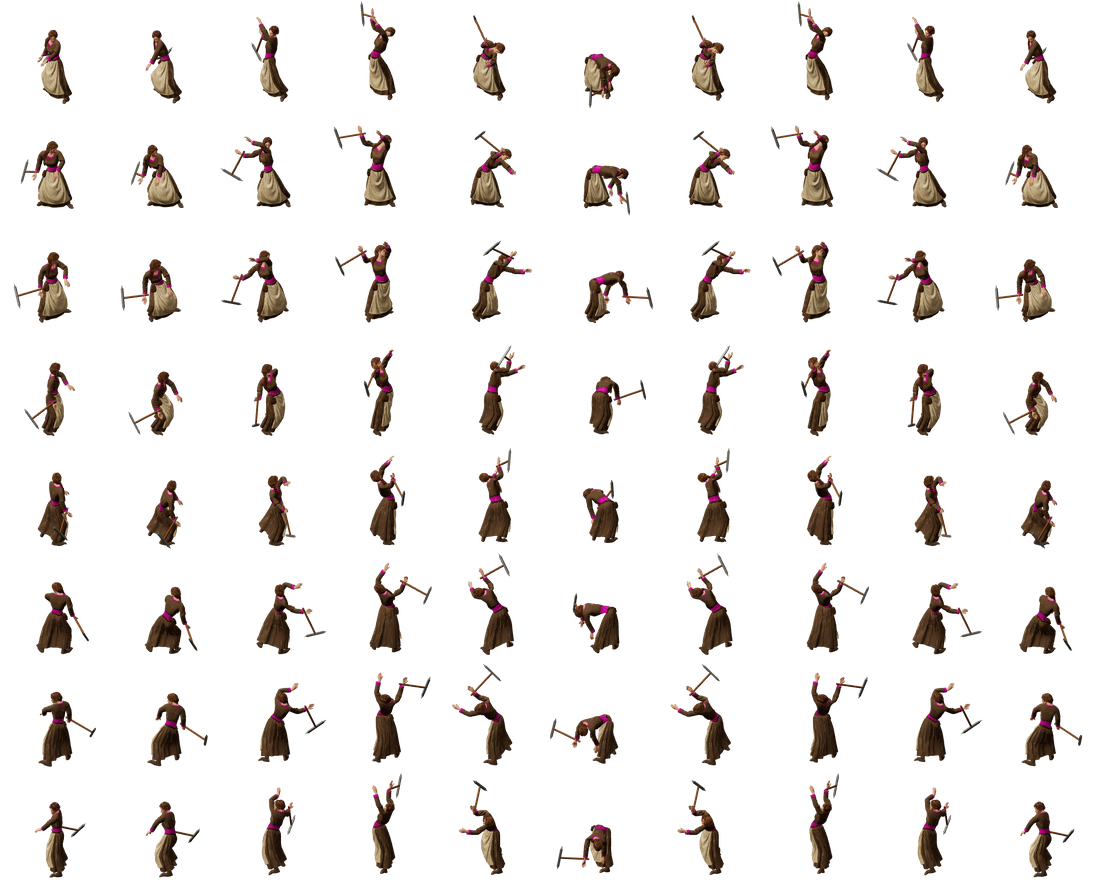
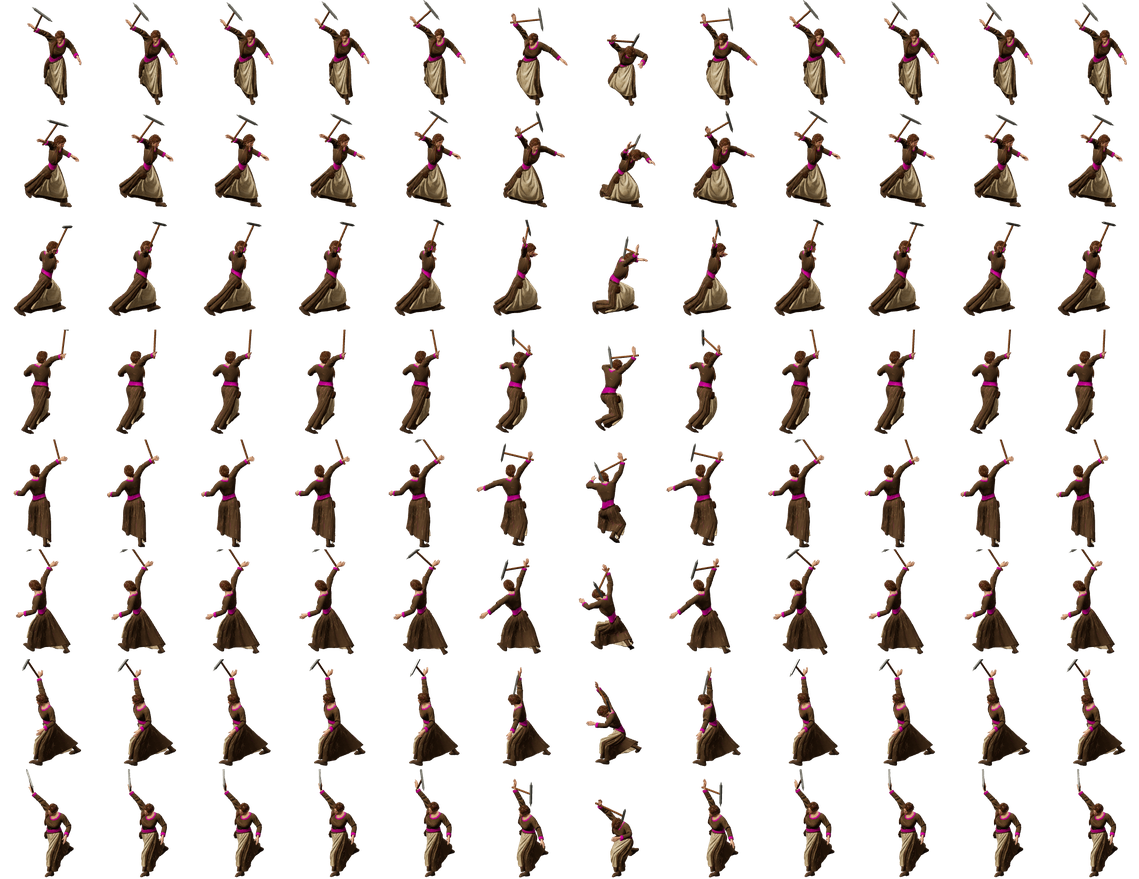
Britons villagers: smooth idle, distinct pickaxe strike, real-speed playback; Town Center garrison (ring bell, ungarrison, +1 arrow per villager)
Claude-Session: https://claude.ai/code/session_01Kh61o4nxMKQZ2MsyTLb45L

diff --git a/js/entities.js b/js/entities.js
@@ -38,7 +38,7 @@
       if (e.owner !== p || e.dead) continue;
       if (e.kind === 'unit') pop++;
       else if (e.kind === 'building') {
-        pop += e.queue ? e.queue.length : 0;
+        pop += (e.queue ? e.queue.length : 0) + (e.garrison ? e.garrison.length : 0);
         if (e.built && e.def.pop) cap += (e.type === 'house' && mods(p).housePop) ? mods(p).housePop : e.def.pop;
       }
     }
@@ -87,11 +87,32 @@
     return e;
   };
 
+  // ---- Garrison (AoE2-style): villagers shelter in their Town Center, each one adds an arrow ----
+  G.GARRISON_MAX = 15;
+  G.canGarrison = (u, b) => b && !b.dead && b.built && b.def.garrison && b.owner === u.owner && u.type === 'villager'
+    && (b.garrison || []).length + (b.incoming || 0) < b.def.garrison;
+  G.garrisonTo = function (u, b) { if (G.canGarrison(u, b)) { u.task = { t: 'garrison', id: b.id }; u.path = []; u.pathFor = 0; } };
+  G.ringBell = function (owner) {
+    for (const u of G.ents) if (!u.dead && u.owner === owner && u.type === 'villager') {
+      const tc = nearest(u, e => e.type === 'towncenter' && G.canGarrison(u, e));
+      if (tc) G.garrisonTo(u, tc);
+    }
+  };
+  G.ungarrison = function (b) {
+    const list = b.garrison || []; b.garrison = [];
+    for (const u of list) {
+      const spot = G.nearestFree(b.x + 1.5, b.y + 1.5, 10) || { x: b.tx, y: b.ty };
+      u.x = spot.x + 0.5 + (Math.random() - 0.5) * 0.4; u.y = spot.y + 0.5 + (Math.random() - 0.5) * 0.4;
+      u.task = { t: 'idle' }; u.path = []; u.inside = 0;
+      G.ents.push(u);
+    }
+  };
   G.kill = function (e) {
     if (e.dead) return;
     e.dead = true;
     if (e.kind !== 'unit' && e.type !== 'farm') G.setBlock(e, 0);
     if (e.kind === 'building' && e.queue) for (const q of e.queue) G.refund(e.owner, q.cost);
+    if (e.kind === 'building' && e.garrison && e.garrison.length) G.ungarrison(e);
     if (e.kind === 'res' && e.type === 'tree' && G.decals) G.decals.push({ x: e.x, y: e.y, life: 150 });
     if (e.kind === 'unit' && G.corpses) G.corpses.push({ type: e.type, owner: e.owner, sex: e.sex, face: e.face, dir: e.dir || 0, x: e.x, y: e.y, t: 0 });
     if (e.kind !== 'res') {
@@ -283,12 +304,13 @@
         b.cool -= dt;
         if (b.cool <= 0) {
           const t = nearest(b, e => e.kind === 'unit' && G.enemies(e.owner, b.owner), b.def.range);
-          if (t) { fire(b, t); b.cool = b.def.rate; }
+          if (t) { const n = 1 + (b.garrison ? b.garrison.length : 0); for (let i = 0; i < n; i++) fire(b, t); b.cool = b.def.rate; }
         }
       }
     }
     // Units
-    for (const u of G.ents) if (!u.dead && u.kind === 'unit') updateUnit(u, dt);
+    for (const u of G.ents) if (!u.dead && u.kind === 'unit' && !u.inside) updateUnit(u, dt);
+    if (G.ents.some(e => e.entering)) { for (const e of G.ents) delete e.entering; G.ents = G.ents.filter(e => !e.inside); }
     // Separation using a tile bucket grid
     const buckets = new Map();
     for (const u of G.ents) if (!u.dead && u.kind === 'unit') {
@@ -505,6 +527,18 @@
           if (u.pathFor !== f.id || !u.path.length) {
             if (u.repath <= 0 || u.pathFor !== f.id) { u.path = G.findPath(u.x, u.y, rectOf(f), false, 0); u.pathFor = f.id; u.repath = 1; }
           }
+          moveAlong(u, dt);
+        }
+        break;
+      }
+      case 'garrison': {
+        const b = G.byId.get(task.id);
+        if (!b || b.dead || !b.built || (b.garrison || []).length >= b.def.garrison) { u.task = { t: 'idle' }; break; }
+        if (G.edgeDist(u, b) <= 0.8) {
+          if (u.carry) { G.players[u.owner].res[u.carry.res] += Math.round(u.carry.amt); G.players[u.owner].gathered[u.carry.res] += Math.round(u.carry.amt); u.carry = null; }
+          (b.garrison = b.garrison || []).push(u); u.inside = b.id; u.entering = true; u.path = [];
+        } else {
+          if (u.pathFor !== b.id || !u.path.length) { if (u.repath <= 0 || u.pathFor !== b.id) pathTo(u, b, true); }
           moveAlong(u, dt);
         }
         break;

diff --git a/js/ui.js b/js/ui.js
@@ -3,7 +3,7 @@
   const $ = id => document.getElementById(id);
   const UI = G.ui = {};
   const ICON = { food: '🍖', wood: '🪵', gold: '🪙', stone: '🪨' };
-  const TASK_TXT = { idle: 'Idle', move: 'Moving', attack: 'Attacking', build: 'Building', farm: 'Farming', return: 'Delivering' };
+  const TASK_TXT = { idle: 'Idle', move: 'Moving', attack: 'Attacking', build: 'Building', farm: 'Farming', return: 'Delivering', garrison: 'Taking shelter' };
   G.selection = [];
   let mode = null; // null | 'place' | 'rally' | 'box'
   let panelKey = '', toastT = 0, idleIdx = 0, mmT = 0, lastAlertT = -99, saveT = 20;
@@ -390,7 +390,8 @@
         if (e.carry && e.carry.amt >= 1) sub += ` · carrying ${Math.floor(e.carry.amt)} ${ICON[e.carry.res]}`;
       } else if (!e.built) sub = `Under construction ${Math.floor(e.progress * 100)}%`;
       else if (e.type === 'farm') sub += ` · ${Math.ceil(e.food)} food left`;
-      else if (e.def.pop) { const pc = G.popOf(e.owner); sub += ` · +${e.type === 'house' && G.CIVS[G.players[e.owner].civ].mods.housePop || e.def.pop} pop`; }
+      if (e.garrison && e.garrison.length) sub += ` · ${e.garrison.length}/${e.def.garrison} inside`;
+      if (e.def.pop) { const pc = G.popOf(e.owner); sub += ` · +${e.type === 'house' && G.CIVS[G.players[e.owner].civ].mods.housePop || e.def.pop} pop`; }
       $('sel-sub').textContent = sub;
       $('sel-hp').style.display = '';
       $('sel-hp').firstChild.style.width = Math.max(0, e.hp / e.maxHp * 100) + '%';
@@ -413,7 +414,7 @@
 
     // commands (rebuilt only when something relevant changes)
     const R = G.players[1].res;
-    const key = sel.map(x => x.id).join(',') + '|' + buildMenu + '|' + (e.built ? 1 : 0) + '|' + Math.floor(R.food / 25) + Math.floor(R.wood / 25) + Math.floor(R.gold / 25) + Math.floor(R.stone / 25);
+    const key = sel.map(x => x.id).join(',') + '|' + buildMenu + '|' + (e.built ? 1 : 0) + '|' + (e.garrison ? e.garrison.length : 0) + '|' + Math.floor(R.food / 25) + Math.floor(R.wood / 25) + Math.floor(R.gold / 25) + Math.floor(R.stone / 25);
     if (!force && key === panelKey) return;
     panelKey = key;
     const cmds = $('cmds'); cmds.innerHTML = '';
@@ -430,6 +431,9 @@
         return;
       }
       if (vils.length) cmds.appendChild(btn('🔨', 'Build', '', () => { buildMenu = true; panelKey = ''; refreshPanel(true); }));
+      if (vils.length) cmds.appendChild(btn('🛡', 'Garrison', 'Town Center', () => {
+        for (const v of vils) { const tc = G.nearest(v, e => e.type === 'towncenter' && G.canGarrison(v, e)); if (tc) G.garrisonTo(v, tc); else { UI.alert('No room in a Town Center'); break; } }
+      }));
       cmds.appendChild(btn('✋', 'Stop', '', () => { for (const u of units) { u.task = { t: 'idle' }; u.path = []; } }));
       if (vils.length && vils.some(v => v.carry)) cmds.appendChild(btn('📦', 'Drop off', '', () => {
         for (const v of vils) if (v.carry) { const b = G.nearest(v, x => x.kind === 'building' && x.owner === 1 && x.built && x.def.drop && x.def.drop.includes(v.carry.res)); if (b) G.cmdDeposit([v], b); }
@@ -452,6 +456,11 @@
         }, !G.canAfford(1, c)));
       }
       cmds.appendChild(btn('🚩', 'Rally point', '', () => setMode('rally')));
+      if (e.def.garrison && e.owner === 1) {
+        cmds.appendChild(btn('🔔', 'Ring bell', 'all villagers in', () => { G.ringBell(1); UI.alert('Villagers, take shelter!'); panelKey = ''; }));
+        const n = (e.garrison || []).length;
+        if (n) cmds.appendChild(btn('🚪', 'Ungarrison', n + ' inside', () => { for (const b of sel) if (b.garrison) G.ungarrison(b); panelKey = ''; }));
+      }
     }
     if (e.kind === 'building' && e.owner === 1) {
       const del = btn('🗑', 'Delete', '', () => {

diff --git a/js/data.js b/js/data.js
@@ -54,7 +54,7 @@ G.UNITS = {
 
 // Buildings. size in tiles (square footprint).
 G.BUILDINGS = {
-  towncenter: { name: 'Town Center', cost: { wood: 275, stone: 100 }, time: 60, hp: 2400, size: 3, los: 8, pop: 5, drop: ['food','wood','gold','stone'], trains: ['villager'], atk: 5, range: 6, rate: 2, icon: '🏰' },
+  towncenter: { name: 'Town Center', cost: { wood: 275, stone: 100 }, time: 60, hp: 2400, size: 3, los: 8, pop: 5, drop: ['food','wood','gold','stone'], trains: ['villager'], garrison: 15, atk: 5, range: 6, rate: 2, icon: '🏰' },
   house:      { name: 'House', cost: { wood: 25 }, time: 15, hp: 550, size: 2, los: 2, pop: 5, icon: '🏠' },
   mill:       { name: 'Mill', cost: { wood: 100 }, time: 20, hp: 600, size: 2, los: 4, drop: ['food'], icon: '🌾' },
   lumbercamp: { name: 'Lumber Camp', cost: { wood: 100 }, time: 20, hp: 600, size: 2, los: 4, drop: ['wood'], icon: '🪵' },

diff --git a/tools/render3d/render.html b/tools/render3d/render.html
@@ -77,8 +77,8 @@ window.renderAll = async function (cfg) {
   // measure standing height from the first frame of the first requested clip (or bind pose)
   const mixer = new THREE.AnimationMixer(model);
   const clips = {}; for (const c of gltf.animations) clips[c.name] = c;
-  if (cfg.clipsUrl) {   // retarget: borrow clips from another character on the same skeleton (bone names match)
-    const src = await new GLTFLoader().loadAsync(cfg.clipsUrl);
+  for (const cu of [].concat(cfg.clipsUrl || [])) {   // borrow clips from other files on the same skeleton (bone names match)
+    const src = await new GLTFLoader().loadAsync(cu);
     const hipY = r => { let y = 1; r.traverse(o => { if (o.isBone && o.name === 'Hips') y = o.position.y; }); return y; };
     const ratio = hipY(model) / hipY(src.scene);
     for (const c0 of src.animations) {

diff --git a/js/save.js b/js/save.js
@@ -16,6 +16,7 @@
     const ents = G.ents.filter(e => !e.dead).map(e => {
       const o = {};
       for (const k in e) if (k !== 'def') o[k] = e[k];
+      if (e.garrison) o.garrison = e.garrison.map(u => { const g = {}; for (const k in u) if (k !== 'def') g[k] = u[k]; return g; });
       return o;
     });
     const data = {
@@ -43,6 +44,7 @@
       o.def = o.kind === 'unit' ? G.UNITS[o.type] : o.kind === 'building' ? G.BUILDINGS[o.type] : G.RES[o.type];
       if (!o.def) continue;
       G.ents.push(o); G.byId.set(o.id, o); maxId = Math.max(maxId, o.id);
+      if (o.garrison) for (const g of o.garrison) { g.def = G.UNITS[g.type]; G.byId.set(g.id, g); maxId = Math.max(maxId, g.id); }
       if (o.kind !== 'unit' && o.type !== 'farm') G.setBlock(o, o.id);
     }
     G.setNextId(maxId + 1);

diff --git a/js/art.js b/js/art.js
@@ -129,7 +129,7 @@
     for (const name of pick3d(u)) { key = key3d(u, name); if (key) { anim = name; break; } }
     if (!key) return false;
     const d = art[key].def, moving = u.path.length > 0;
-    const f = moving ? Math.floor((u.dist || 0) / STRIDE3 * d.frames) : Math.floor((G.time + (u.id % 7) * 0.37) * (FPS3[anim] || 8));
+    const f = moving ? Math.floor((u.dist || 0) / STRIDE3 * d.frames) : Math.floor((G.time + (u.id % 7) * 0.37) * (d.cycle ? Math.min(14, Math.max(7, d.frames / d.cycle)) : (FPS3[anim] || 8)));
     ctx.fillStyle = 'rgba(0,0,0,0.25)';
     ctx.beginPath(); ctx.ellipse(x, y, 9 * z, 4 * z, 0, 0, 7); ctx.fill();
     drawFrame3(ctx, key, G.ownerColor(u.owner), f, u.dir || 0, x, y, z, u.hitT ? 0.7 : 1);

diff --git a/tools/render3d/drive_jobs.py b/tools/render3d/drive_jobs.py
@@ -18,7 +18,10 @@ async def main(jobs_file, out_dir, model=None, only=None):
                 for k, v in res.items():
                     if 'png' not in v: print(k, v); continue
                     open(f'{out_dir}/{k}.png', 'wb').write(base64.b64decode(v['png'].split(',')[1]))
-                    json.dump({kk: vv for kk, vv in v.items() if kk != 'png'}, open(f'{out_dir}/{k}.json', 'w'))
+                    meta = {kk: vv for kk, vv in v.items() if kk != 'png'}
+                    span = (a.get('end', 1) - a.get('start', 0)) * v.get('duration', 1)
+                    meta['cycle'] = round(span * (2 if a.get('pingpong') else 1), 3)
+                    json.dump(meta, open(f'{out_dir}/{k}.json', 'w'))
                     print(k, v['frames'], 'x', v['dirs'], flush=True)
             if errs: print('ERR', errs[:5])
             await b.close()

diff --git a/tools/process_render.py b/tools/process_render.py
@@ -54,7 +54,7 @@ def main(rdir, prefix, standing_px=150.0, only=None):
         sheet.save(os.path.join(out_dir, key + '.png'), optimize=True)
         ax, ay = meta['anchor']['x'] - x0, meta['anchor']['y'] - y0
         man[key] = {'file': f'assets/units/{key}.png', 'frames': n, 'rows': rows,
-                    'fw': round(cw * k, 2), 'fh': round(ch * k, 2), 'ax': round(ax * k, 2), 'ay': round(ay * k, 2)}
+                    'cycle': meta.get('cycle'), 'fw': round(cw * k, 2), 'fh': round(ch * k, 2), 'ax': round(ax * k, 2), 'ay': round(ay * k, 2)}
         print(f'{key}: {n}x{rows} frames, {ow}x{oh}px, cell {cw * k:.0f}x{ch * k:.0f}')
     json.dump(man, open(man_path, 'w'), indent=1)
 

diff --git a/tools/render3d/README.md b/tools/render3d/README.md
@@ -4,3 +4,7 @@ Renders a rigged Meshy GLB into 8-direction isometric sprite sheets (S SE E NE N
 2. `python3 drive_jobs.py villager_jobs.json out_dir` (female: `villager_jobs_f.json`, borrows the male clips via `clipsUrl`).
 3. `python3 tools/process_render.py out_dir unit3d_britons_villager_m 150`
 Tools/props are built in code (see TOOLS in render.html). Models (GLB) are not committed; keep them out of the repo.
+
+Motions come from two Meshy files on the shared skeleton: `villager_m_anim.glb` (original 10) and `villager_m_anim2.glb` (Idle_02, Charged_Ground_Slam, …), merged via `clipsUrl` (a list).
+Each sheet's real loop length is stored as `cycle` in the manifest; the game plays it at that speed (clamped 7–14 fps).
+Re-download GLBs any time from Meshy task history (rigging / animations endpoints) at no credit cost.
